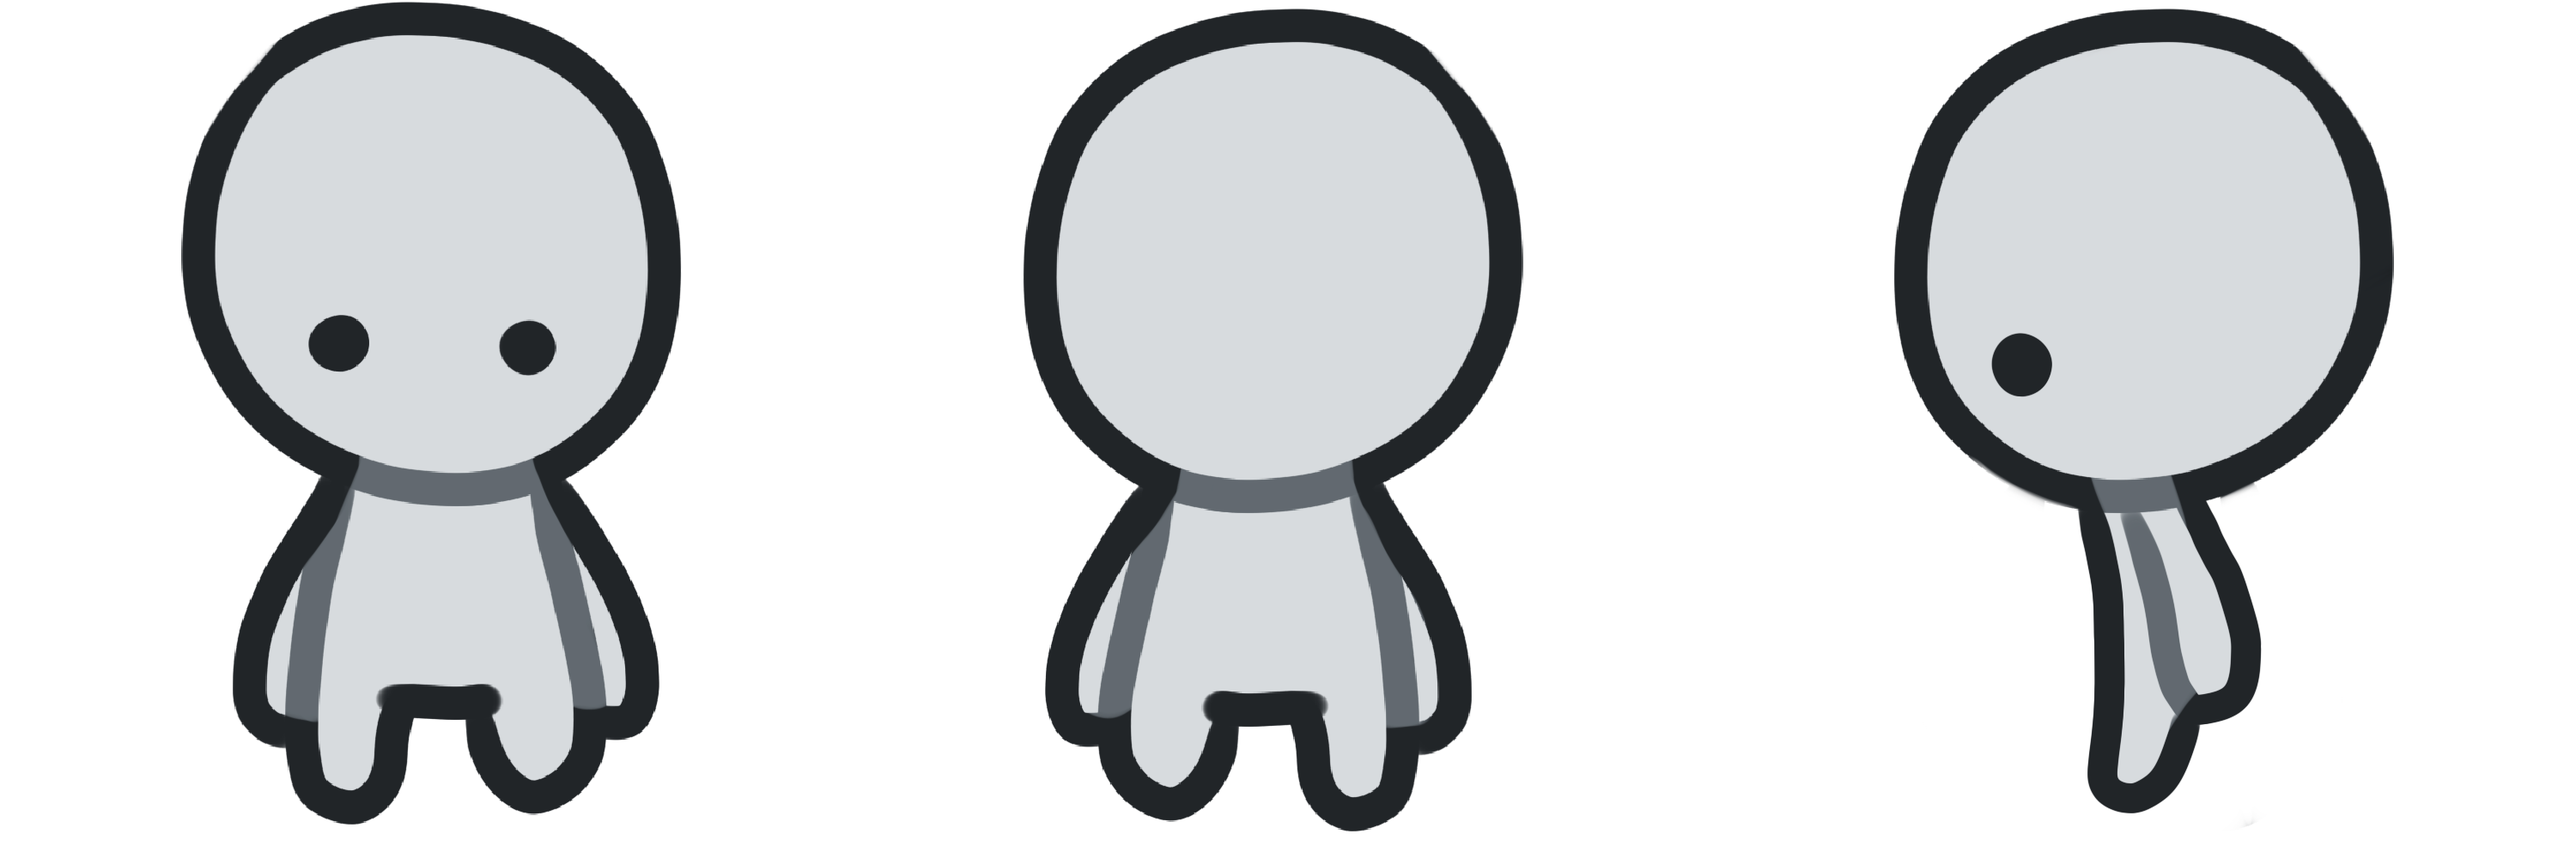
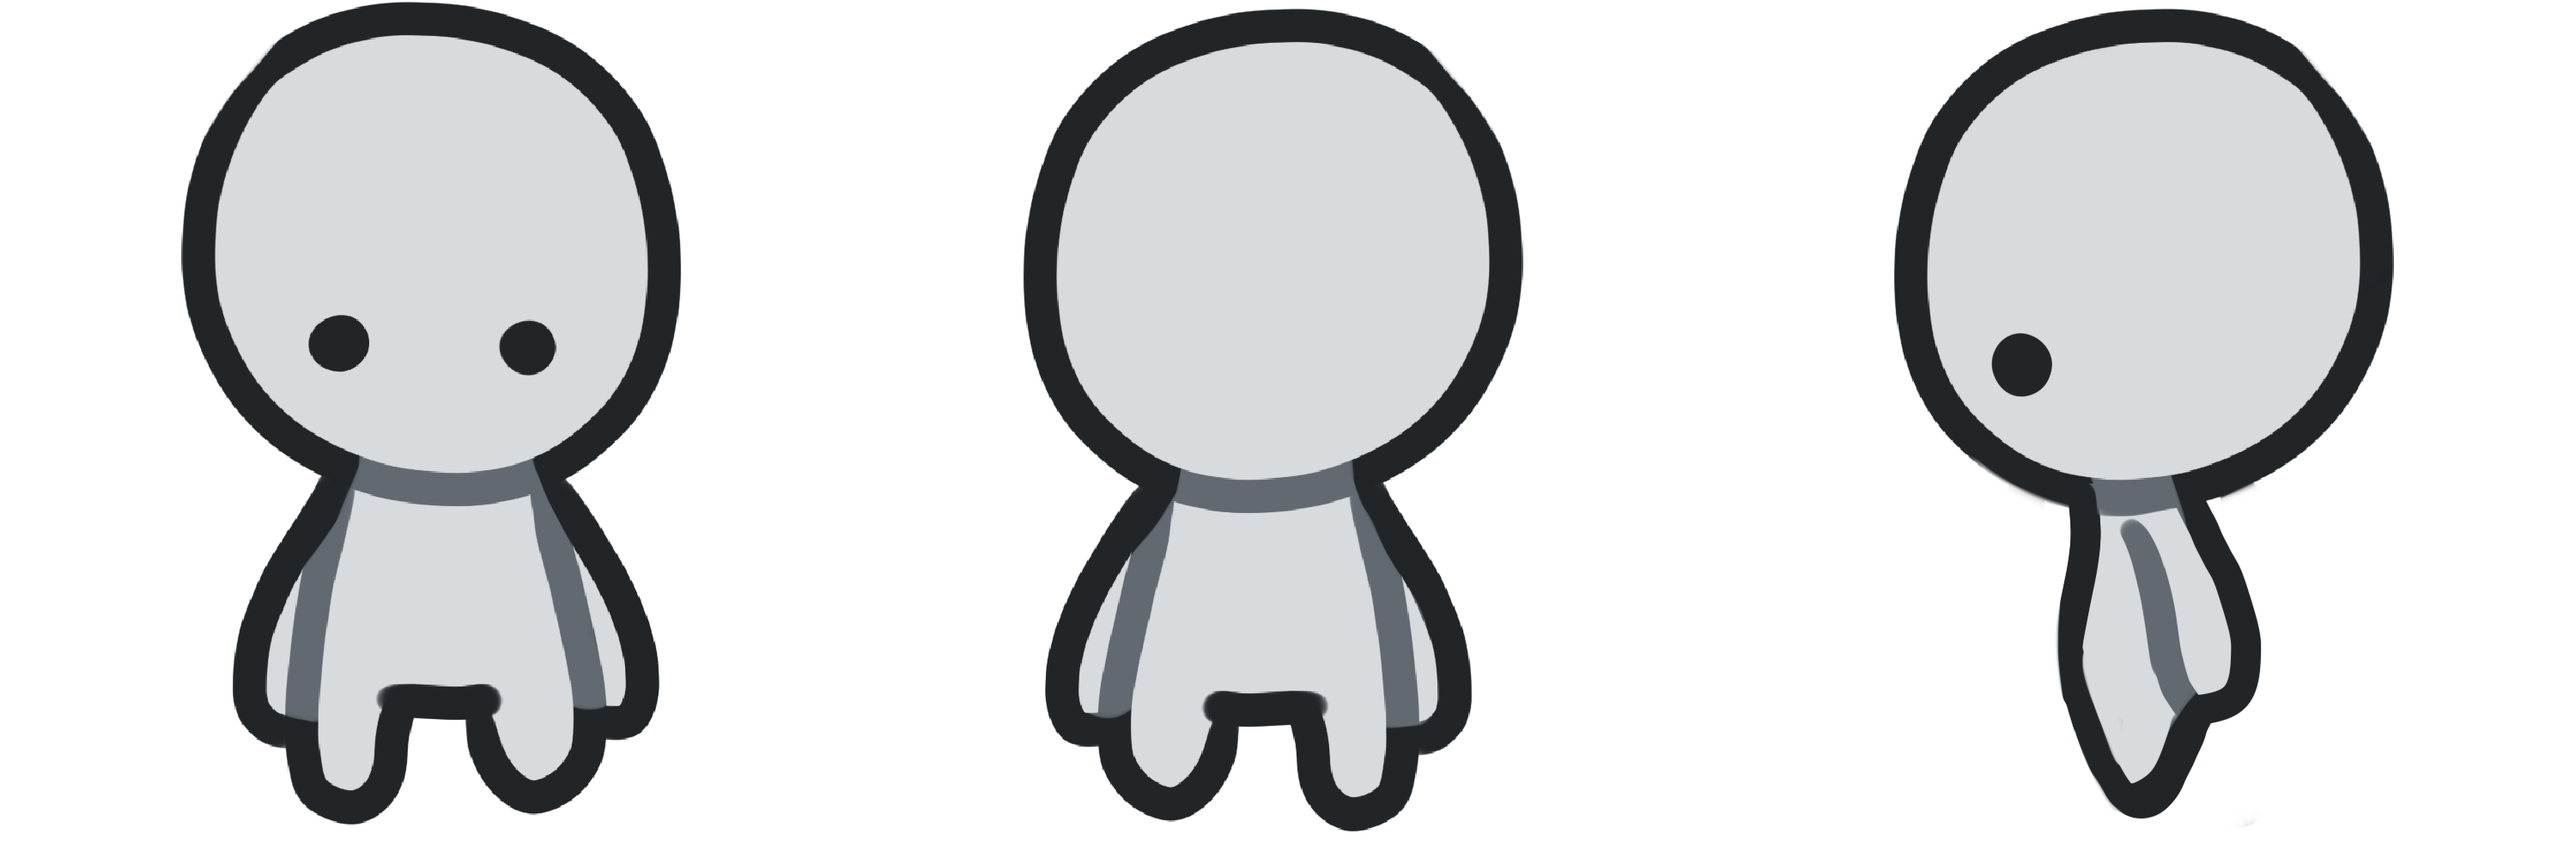
Made player animation

Changed region(s): [[0.775, 0.589, 0.837, 0.961]]

diff --git a/src/Utils/Character.py b/src/Utils/Character.py
@@ -2,26 +2,82 @@
 
 import pygame
 import numpy as np
+from PIL import Image, ImageOps
 import os
 from Config.definitnios import ASSETS_DIR
 
 RESOLUTION = (1280, 720)
 GRAY_COLOR = (65, 65, 67)
 
+def save_as(dict, image, path, name):
+    new_path = os.path.join(os.path.dirname(path), name + ".png")
+    image.save(new_path)
+    dict[name] = new_path
+
 class Player:
-    def __init__(self, pos:tuple, size):
+    def __init__(self, pos:tuple, size, sprite_path):
+
         self.pos = np.array(pos)
         self.size = size
         self.velocity = np.array([0,0])
         self.speed = 6
+        self.state = "s"
+
+        self.animation = False
+        self.f = 1
+
         self.obstacles = []
         self.obstacles.append(((100,100), (100, 100)))
 
+        self.frames = {}
+
+
+        #nie wiem
+
+        image_path = os.path.join(ASSETS_DIR, sprite_path)
+        image = Image.open(image_path)
+        image = image.resize((size*3, size))
+        
+
+        # S
+        im = image.crop((0,0,100,100))
+        save_as(self.frames, im, image_path, "s")
+
+        # W
+        im = image.crop((100,0,200,100))
+        save_as(self.frames, im, image_path, "w")
+
+        # D
+        im = image.crop((200,0,300,100))
+        save_as(self.frames, im, image_path, "a")
+
+        # A
+        im = ImageOps.mirror(im)
+        save_as(self.frames, im, image_path, "d")
+
+        for name in ["w","s","a","d"]:
+            new_path = os.path.join(os.path.dirname(image_path), name + ".png")
+            im = Image.open(new_path)
+
+            im1 = im.rotate(5)
+            save_as(self.frames, im1, image_path, name + "1")
+
+            im2 = im.rotate(-5)
+            save_as(self.frames, im2, image_path, name + "2")
+
+
+
+
     def render(self,screen):
 
-        rect= pygame.Rect(self.pos[0], self.pos[1], self.size, self.size)
-        image_path = os.path.join(ASSETS_DIR, "player/idle.png")
-        image = pygame.image.load(image_path)
+        rect = pygame.Rect(self.pos[0], self.pos[1], self.size, self.size)
+
+        if self.animation:
+            self.f += 0.1
+            lizma = int(((self.f)%2)+1)
+            image = pygame.image.load( self.frames[self.state + str(lizma)] )
+        else:
+            image = pygame.image.load( self.frames[self.state] )
 
         screen.blit(image, rect)
 
@@ -55,7 +111,7 @@ class Player:
                     self.velocity[0] += -1  
                 elif event.key == pygame.K_d:
                     self.velocity[0] += 1   
-
+                    
             elif event.type == pygame.KEYUP:
                 if event.key == pygame.K_w:
                     self.velocity[1] -= -1  
@@ -65,6 +121,21 @@ class Player:
                     self.velocity[0] -= -1  
                 elif event.key == pygame.K_d:
                     self.velocity[0] -= 1  
+
+        if self.velocity[1] == 1:
+            self.state = "s"
+        if self.velocity[1] == -1:
+            self.state = "w"
+        if self.velocity[0] == 1:
+            self.state = "d"
+        if self.velocity[0] == -1:
+            self.state = "a"
+
+        if self.velocity[0] == 0 and self.velocity[1] == 0:
+            self.animation = False
+            self.state = "s"
+        else:
+            self.animation = True
 
         collision = False
         dummy_pos = self.pos + self.velocity * self.speed

diff --git a/src/Scenes/MainMenuScene.py b/src/Scenes/MainMenuScene.py
@@ -25,7 +25,7 @@ class MainMenuScene(BaseScene):
         self.slider = Volume_slider((200, 250), (200, 12), 0.5,0,100,'red','grey',50)
         self.add_ui_element(self.slider)
 
-        self.character = Player((0,0), 100)
+        self.character = Player((0,0), 100, "player/player.png")
         self.add_ui_element(self.character)
 
         self.add_ui_element(logo)
